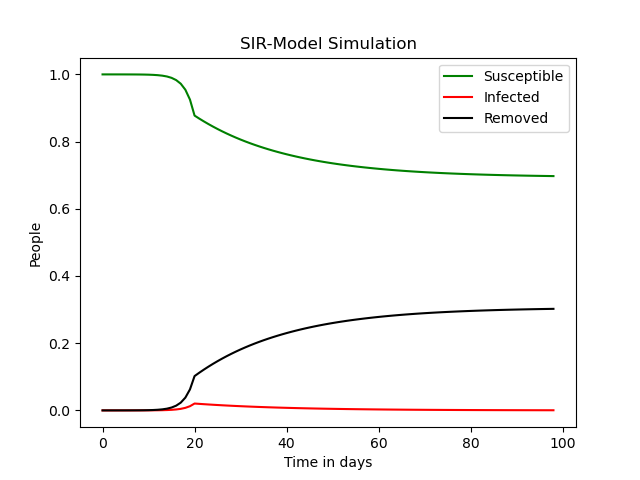
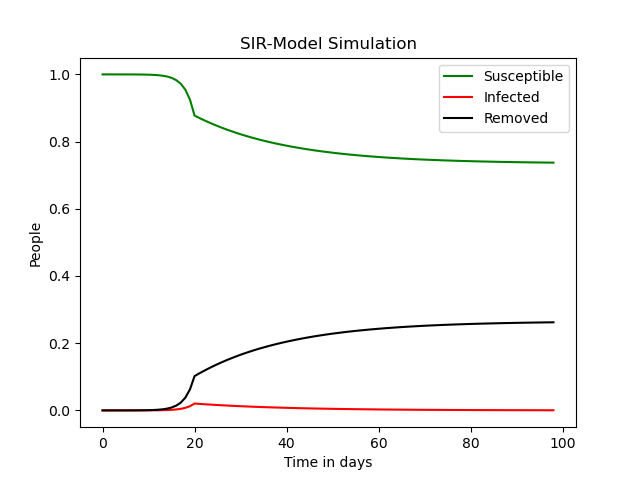
Einfügen von niedrigerer Menschentötungsrate durch Zombies + Anpassungen

Changed region(s): [[0.3125, 0.25, 0.875, 0.375], [0.3438, 0.625, 0.875, 0.75], [0.3125, 0.75, 0.3438, 0.7812]]

diff --git a/zombie_simulation.py b/zombie_simulation.py
@@ -50,6 +50,7 @@ CHANGING_CASE_14d = {
     "contact_rate_2": 2,
     "time_in_days_2": 86,
     "infection_probability_2": 0.075,
+    "human_killed_rate_2": 0.10,
 }
 
 CHANGING_CASE_21d = {
@@ -65,6 +66,7 @@ CHANGING_CASE_21d = {
     "contact_rate_2": 2,
     "time_in_days_2": 79,
     "infection_probability_2": 0.075,
+    "human_killed_rate_2": 0.10,
 }
 
 CHANGING_CASE_21d_mil = {
@@ -92,6 +94,7 @@ CHANGING_CASE_21d_qua = {
     "contact_rate_2": 2,
     "time_in_days_2": 79,
     "infection_probability_2": 0.075,
+    "human_killed_rate_2": 0.10,
 }
 
 CHANGING_CASE_28d = {
@@ -107,6 +110,7 @@ CHANGING_CASE_28d = {
     "contact_rate_2": 2,
     "time_in_days_2": 72,
     "infection_probability_2": 0.075,
+    "human_killed_rate_2": 0.10,
 }
 
 
